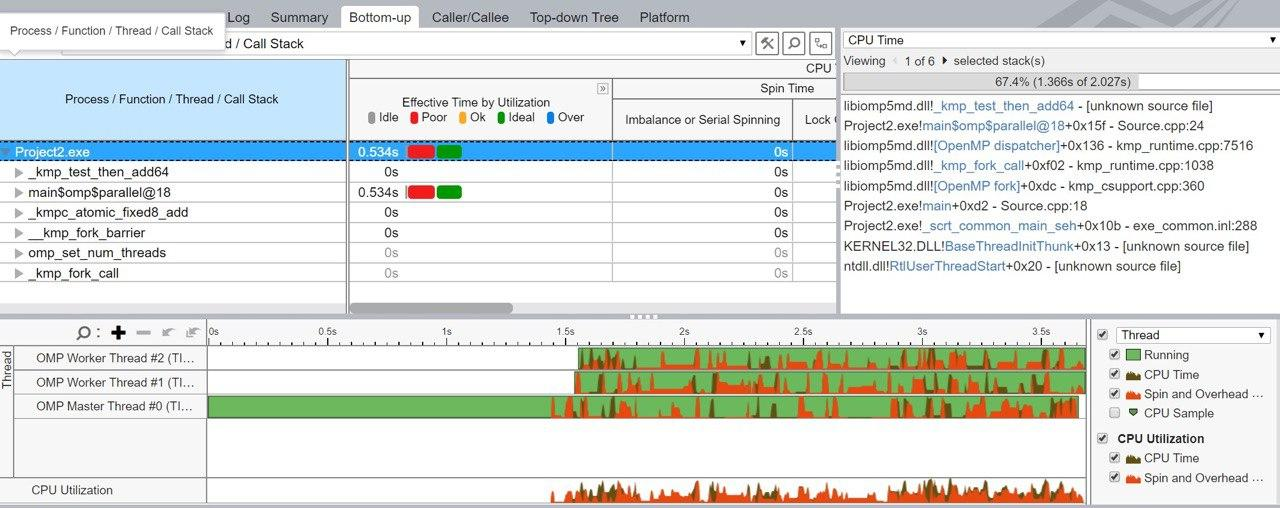
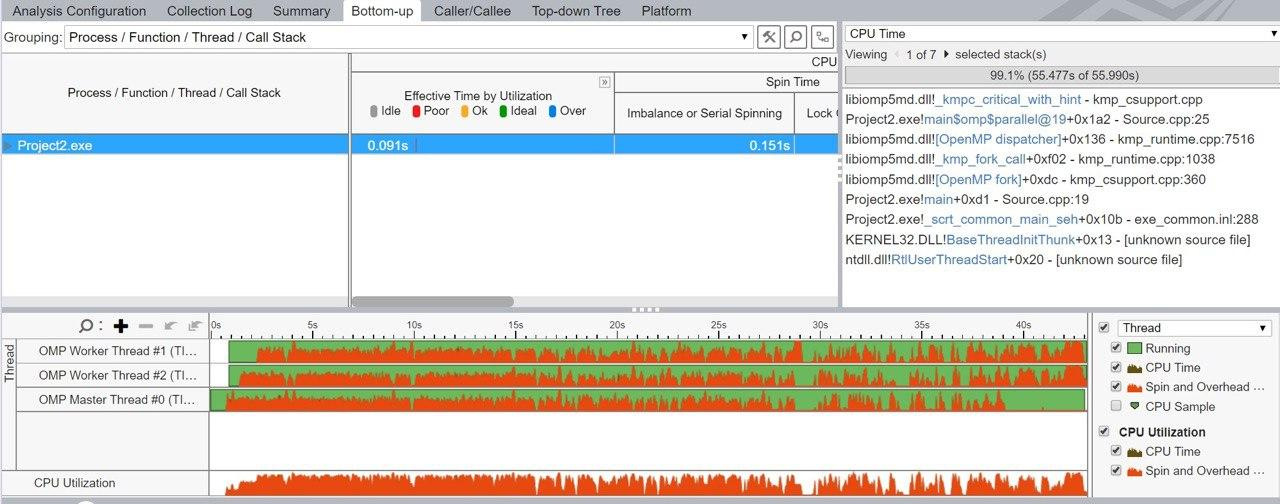
Fourth point of exercise
№4

diff --git a/Source.cpp b/Source.cpp
@@ -15,16 +15,18 @@ double par(void)
     double S = 0.0;
     step = 1.0 / (double)num;
     double t = omp_get_wtime();
+
 #pragma omp parallel for
     for (i = 0; i < num; i++) {
         x = (i + 0.5) * step;
         S = S + 4.0 / (1.0 + x * x);
-#pragma omp atomic
+#pragma omp critical
         inc++;
     }
     t = omp_get_wtime() - t;
     pi = step * S;
     printf("Par: pi = %.14f\n", pi);
+
     return t;
 }
 
